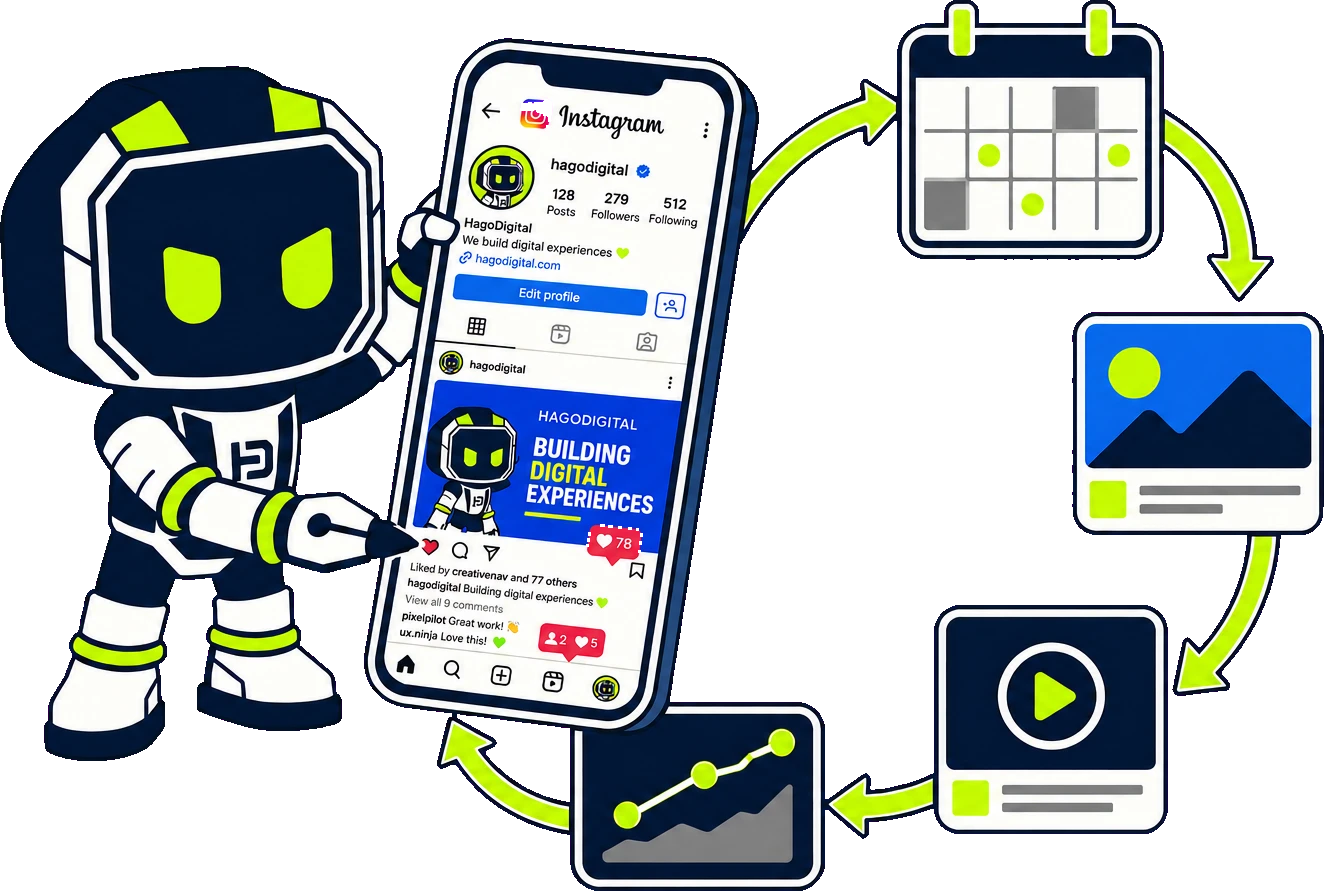
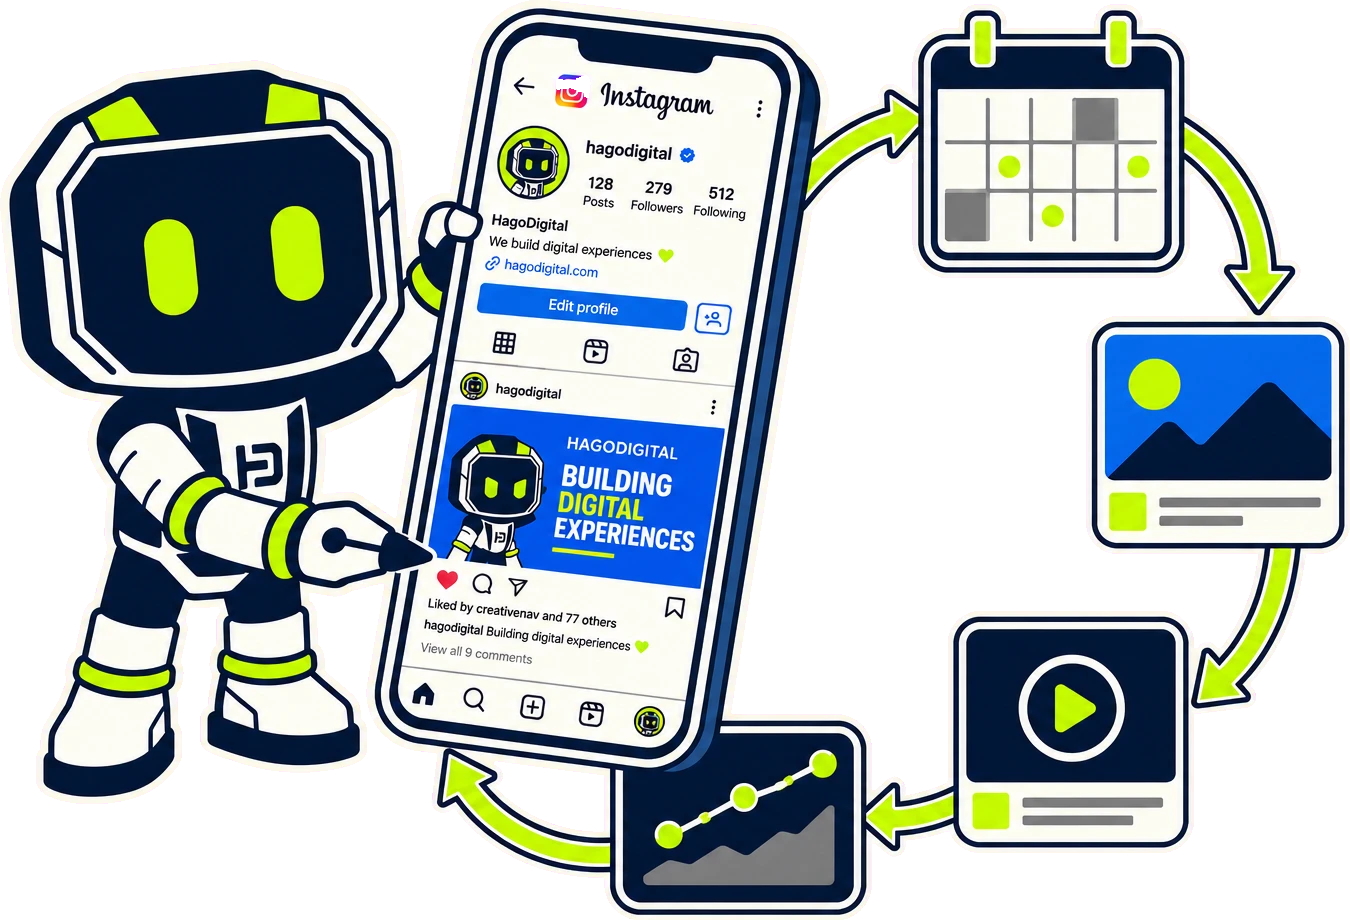
Deploy: sync site from workspace @ f72e392

diff --git a/es/index.html b/es/index.html
@@ -251,7 +251,7 @@
 <section class="pillar on-navy">
   <div class="shell row">
     <figure data-rise="left">
-      <img src="../assets/social-cycle.webp" width="1324" height="891"
+      <img src="../assets/social-cycle.webp" width="1350" height="920"
            alt="Hago, el robot, con un tel&eacute;fono que muestra un perfil y una publicaci&oacute;n de HagoDigital en Instagram, y flechas lima que giran por un calendario, una publicaci&oacute;n con imagen, una con video y un gr&aacute;fico de resultados que sube.">
     </figure>
     <div class="copy" data-rise>

diff --git a/index.html b/index.html
@@ -253,7 +253,7 @@
 <section class="pillar on-navy">
   <div class="shell row">
     <figure data-rise="left">
-      <img src="assets/social-cycle.webp" width="1324" height="891"
+      <img src="assets/social-cycle.webp" width="1350" height="920"
            alt="Hago the robot holding a phone that shows a HagoDigital Instagram profile and post, with lime arrows running clockwise through a calendar, an image post, a video post and a rising results chart.">
     </figure>
     <div class="copy" data-rise>
